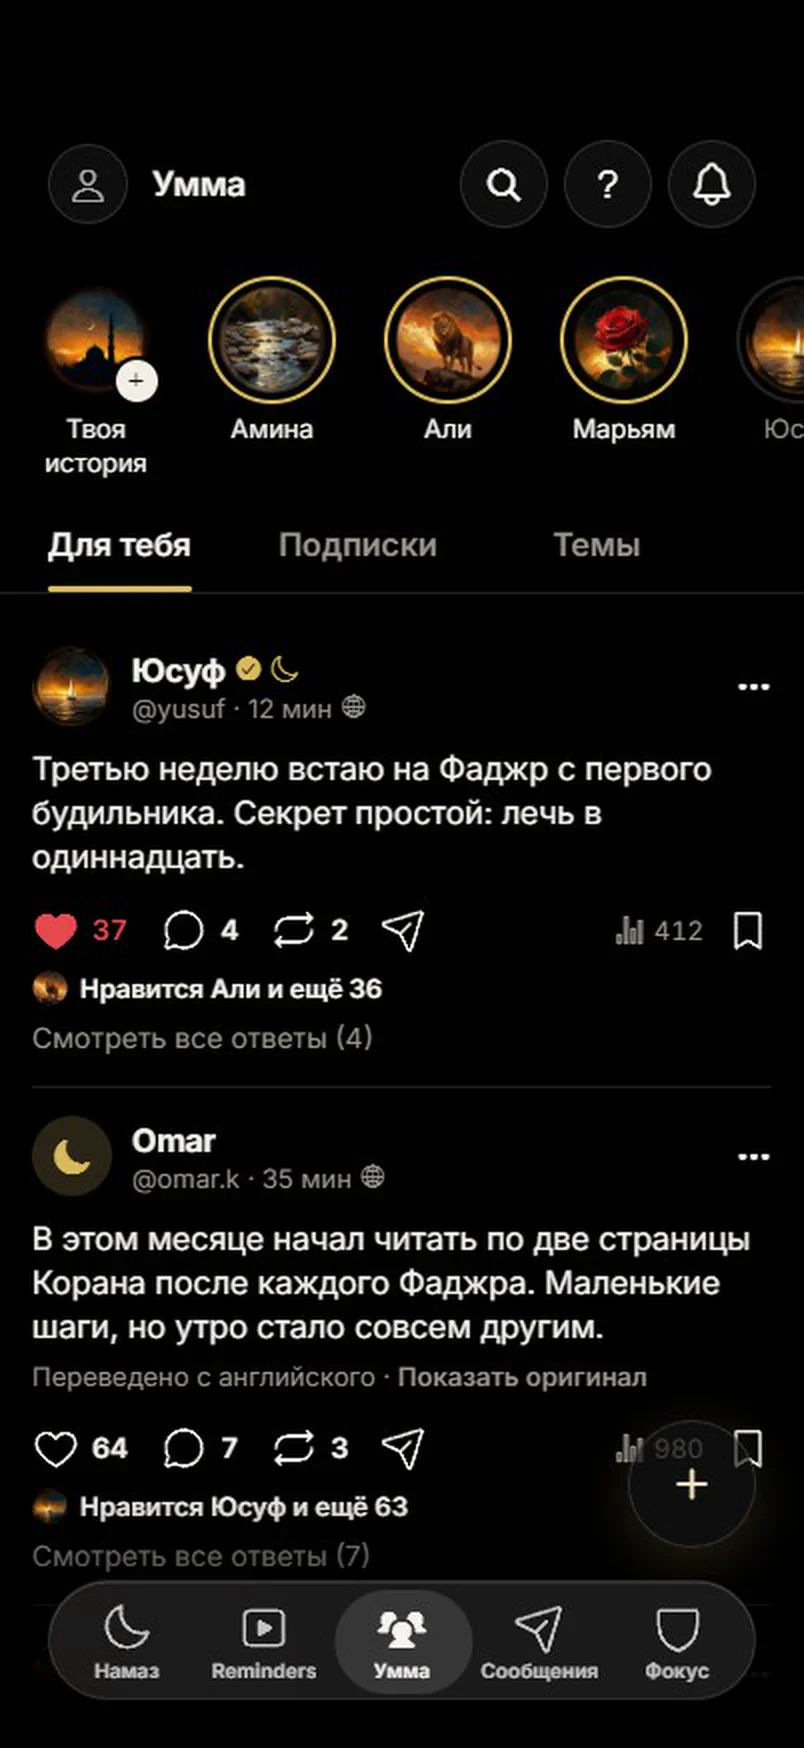
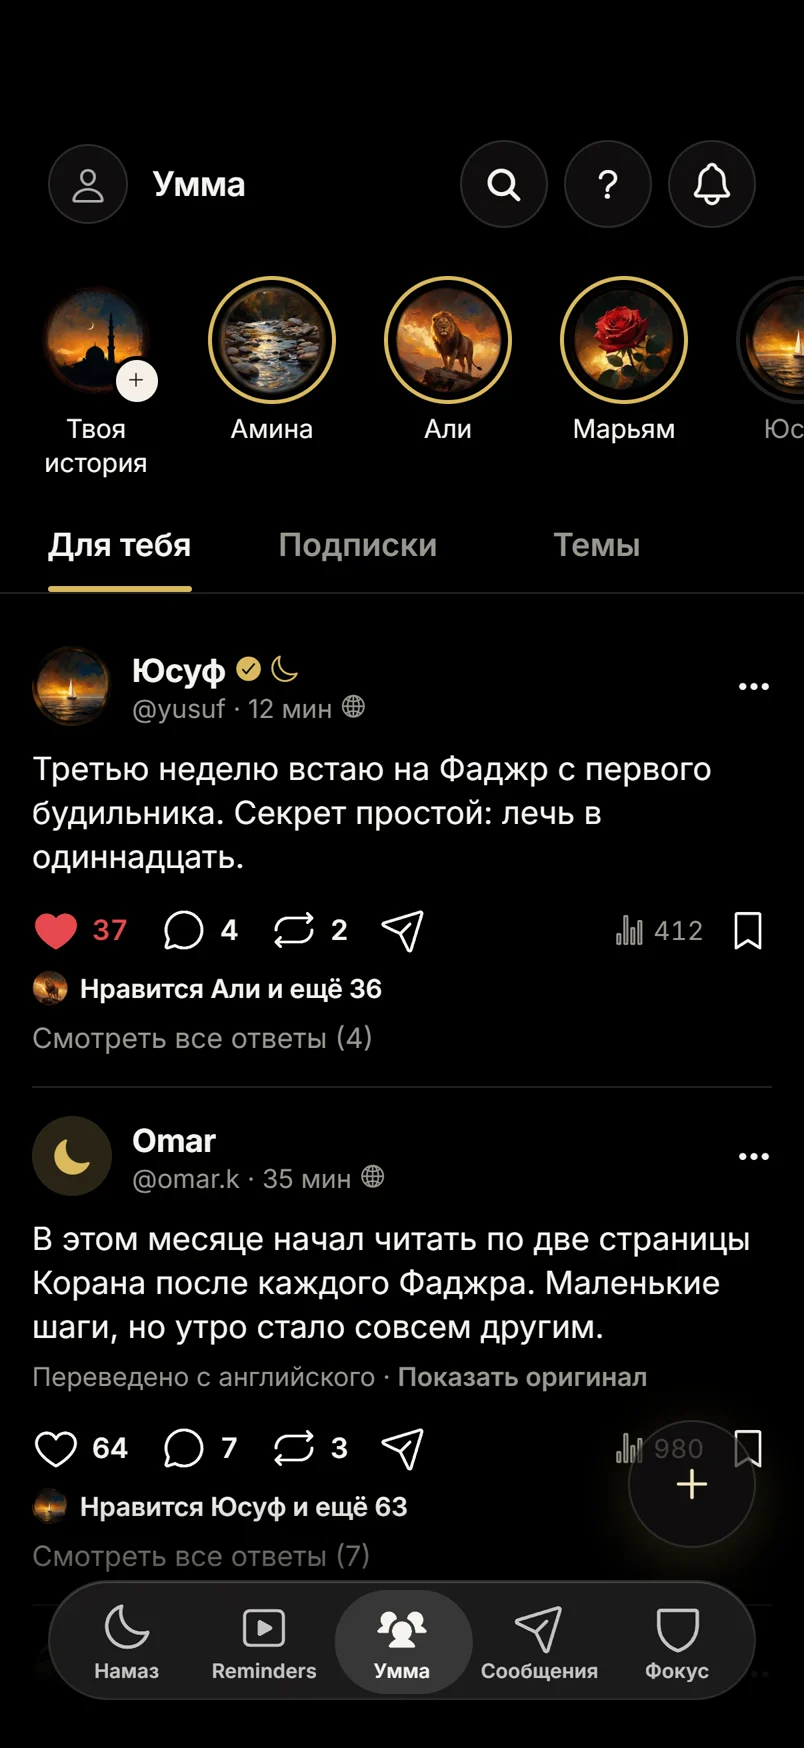
Превью v9: третий круг

diff --git a/_preview/v9/index.html b/_preview/v9/index.html
@@ -432,6 +432,17 @@ figcaption{font-size:15px}
 .pair .back{position:relative;box-shadow:0 0 0 1.5px rgba(255,255,255,.16),0 0 0 6px #141412,0 0 0 7px rgba(255,255,255,.14),0 40px 80px -20px rgba(0,0,0,1)}
 @media (max-width:520px){.pair{gap:12px;padding-right:0}.pair .dev:not(.back){--pw:58vw}.pair .back{--pw:31vw}}
 @media (min-width:981px){.hero-bg img{filter:blur(3px) brightness(.85) saturate(1.1);transform:scale(1.03)}}
+
+/* круг 3: оба телефона первого экрана в одном масштабе, подписи «Вы» и «Близкий» над ними */
+@media (min-width:981px){
+  .duo{gap:22px}
+  .duo .d-main .dev,.duo .d-side .dev{--pw:min(290px,calc((100dvh - 250px)*.43),19vw)}
+  .duo .d-side{bottom:0}
+  .hero-bg img{filter:blur(1.2px) brightness(.88) saturate(1.1)}
+}
+.who{margin:0 0 12px!important;font-size:13px!important;font-weight:700;letter-spacing:.12em;text-transform:uppercase;color:var(--gold)!important;text-align:center}
+@media (max-width:980px){.d-main .who{display:none}}
+@media (max-width:520px){.pair .dev:not(.back){--pw:54vw}.pair .back{--pw:30vw}}
 </style>
 </head>
 <body>
@@ -465,8 +476,8 @@ figcaption{font-size:15px}
       </div>
     </div>
     <div class="duo">
-      <figure class="d-main"><div class="dev" style="--w:380px" data-slot="clip-remind" data-temp><div class="sb"><span>9:41</span><i><s></s><b></b></i></div><div class="isl"></div><video data-src="media/clip-remind.mp4" poster="media/clip-remind.webp" muted loop playsinline preload="none" aria-label="Запись экрана Firdausly"></video></div><figcaption>У вас: касание по близкому, и он уже позван</figcaption></figure>
-      <figure class="d-side"><div class="dev" style="--w:250px" data-slot="zov" data-temp><div class="sb"><span>9:41</span><i><s></s><b></b></i></div><div class="isl"></div><img src="media/zov.webp" srcset="media/zov-s.webp 603w, media/zov.webp 1206w" sizes="250px" alt="Экран Firdausly" decoding="async"></div><figcaption>У близкого: «Иду», «Прочитал» или «Позже»</figcaption></figure>
+      <figure class="d-main"><figcaption class="who">Вы</figcaption><div class="dev" style="--w:380px" data-slot="clip-remind" data-temp><div class="sb"><span>9:41</span><i><s></s><b></b></i></div><div class="isl"></div><video data-src="media/clip-remind.mp4" poster="media/clip-remind.webp" muted loop playsinline preload="none" aria-label="Запись экрана Firdausly"></video></div><figcaption>Касание по близкому, и он уже позван</figcaption></figure>
+      <figure class="d-side"><figcaption class="who">Близкий</figcaption><div class="dev" style="--w:380px" data-slot="zov" data-temp><div class="sb"><span>9:41</span><i><s></s><b></b></i></div><div class="isl"></div><img src="media/zov.webp" srcset="media/zov-s.webp 603w, media/zov.webp 1206w" sizes="380px" alt="Экран Firdausly" decoding="async"></div><figcaption>«Иду», «Прочитал» или «Позже»</figcaption></figure>
     </div>
   </div>
 </section>
@@ -511,7 +522,7 @@ figcaption{font-size:15px}
       <p class="lead" style="margin-top:20px">Настоящий будильник iPhone: звонит даже в беззвучном режиме. Позовите своих, и утром вы встаёте вместе. Встал один, и остальные видят это сразу.</p>
       <p class="plusnote" style="margin-top:22px">Будильник на Фаджр бесплатно.&nbsp;<span class="pchip">Plus</span>общий будильник с близкими и звонок азаном, 14 дней бесплатно.</p>
     </div>
-    <div class="pair"><div class="dev" style="--w:330px" data-slot="together" data-temp><div class="sb"><span>9:41</span><i><s></s><b></b></i></div><div class="isl"></div><img src="media/together.webp" srcset="media/together-s.webp 603w, media/together.webp 1206w" sizes="330px" alt="Экран Firdausly" loading="lazy" decoding="async"></div><div class="dev back" style="--w:250px" data-slot="fajr" data-temp><div class="sb"><span>9:41</span><i><s></s><b></b></i></div><div class="isl"></div><img src="media/fajr.webp" srcset="media/fajr-s.webp 603w, media/fajr.webp 1206w" sizes="250px" alt="Экран Firdausly" loading="lazy" decoding="async"></div></div>
+    <div class="pair"><div class="dev" style="--w:330px" data-slot="fajr" data-temp><div class="sb"><span>9:41</span><i><s></s><b></b></i></div><div class="isl"></div><img src="media/fajr.webp" srcset="media/fajr-s.webp 603w, media/fajr.webp 1206w" sizes="330px" alt="Экран Firdausly" loading="lazy" decoding="async"></div><div class="dev back" style="--w:250px" data-slot="together" data-temp><div class="sb"><span>9:41</span><i><s></s><b></b></i></div><div class="isl"></div><img src="media/together.webp" srcset="media/together-s.webp 603w, media/together.webp 1206w" sizes="250px" alt="Экран Firdausly" loading="lazy" decoding="async"></div></div>
   </div>
 </section>
 
@@ -651,7 +662,7 @@ figcaption{font-size:15px}
     </div>
     <div class="mosq">
       <svg class="i"><use href="#p-mosque"/></svg>
-      <p><b>Мечетям и школам.</b> Джума и уроки в прямом эфире на Сцене, ролики в Reminders, отметка проверенного аккаунта. <a href="partners/#mosque">Оставить заявку</a></p>
+      <p><b>Мечетям и школам.</b> Джума и уроки в прямом эфире на Сцене, ролики в Reminders, отметка проверенного аккаунта. Бесплатно. <a href="partners/#mosque">Оставить заявку →</a></p>
     </div>
   </div>
 </section>

diff --git a/_preview/v9/partners/index.html b/_preview/v9/partners/index.html
@@ -428,6 +428,17 @@ figcaption{font-size:15px}
 .pair .back{position:relative;box-shadow:0 0 0 1.5px rgba(255,255,255,.16),0 0 0 6px #141412,0 0 0 7px rgba(255,255,255,.14),0 40px 80px -20px rgba(0,0,0,1)}
 @media (max-width:520px){.pair{gap:12px;padding-right:0}.pair .dev:not(.back){--pw:58vw}.pair .back{--pw:31vw}}
 @media (min-width:981px){.hero-bg img{filter:blur(3px) brightness(.85) saturate(1.1);transform:scale(1.03)}}
+
+/* круг 3: оба телефона первого экрана в одном масштабе, подписи «Вы» и «Близкий» над ними */
+@media (min-width:981px){
+  .duo{gap:22px}
+  .duo .d-main .dev,.duo .d-side .dev{--pw:min(290px,calc((100dvh - 250px)*.43),19vw)}
+  .duo .d-side{bottom:0}
+  .hero-bg img{filter:blur(1.2px) brightness(.88) saturate(1.1)}
+}
+.who{margin:0 0 12px!important;font-size:13px!important;font-weight:700;letter-spacing:.12em;text-transform:uppercase;color:var(--gold)!important;text-align:center}
+@media (max-width:980px){.d-main .who{display:none}}
+@media (max-width:520px){.pair .dev:not(.back){--pw:54vw}.pair .back{--pw:30vw}}
 </style>
 <style>
 /* страница партнёров: свои куски поверх общего стиля */
@@ -544,10 +555,10 @@ figcaption{font-size:15px}
         <div class="rng"><label for="c-pay">Станут платить после подарка <b id="o-pay">5%</b></label><input type="range" id="c-pay" min="2" max="30" step="1" value="5"><small>Из поставивших, кто после месяца Plus оформит подписку.</small></div>
       </div>
       <div class="box res2" aria-live="polite">
-        <div class="big" id="o-sum">31 980 ₸</div>
-        <div class="yr" id="o-year">в месяц, пока люди платят</div>
-        <dl><dt>Поставят приложение</dt><dd id="o-inst">600</dd><dt>Станут платить</dt><dd id="o-payers">60</dd><dt>Вам с одной оплаты Plus на месяц</dt><dd>533 ₸</dd></dl>
-        <p class="math"><b>Plus на месяц 3 790 ₸</b> − НДС 16% (523 ₸) − комиссия Apple 15% (490 ₸) − наш налог 4% (111 ₸) = <b>2 666 ₸</b> чистыми → вам 20% = <b>533 ₸</b>. Premium даёт больше с человека. Оценка, не обещание: сколько людей придёт, зависит от вас и вашей аудитории.</p>
+        <div class="big" id="o-sum">15 990 ₸</div>
+        <div class="yr" id="o-year">в месяц · ≈ 191 880 ₸ за год, если все оплатившие останутся</div>
+        <dl><dt>Поставят приложение</dt><dd id="o-inst">600</dd><dt>Станут платить</dt><dd id="o-payers">30</dd><dt>Вам с одной оплаты Plus на месяц</dt><dd>533 ₸</dd></dl>
+        <p class="math"><b>Plus на месяц 3 790 ₸</b> − НДС 16% (523 ₸) − комиссия Apple 15% (490 ₸) − наш налог 4% (111 ₸) = <b>2 666 ₸</b> чистыми → вам 20% = <b>533 ₸</b>. С Premium доля больше: он дороже Plus. Оценка, не обещание: сколько людей придёт, зависит от вас и вашей аудитории.</p>
       </div>
     </div>
   </div>
